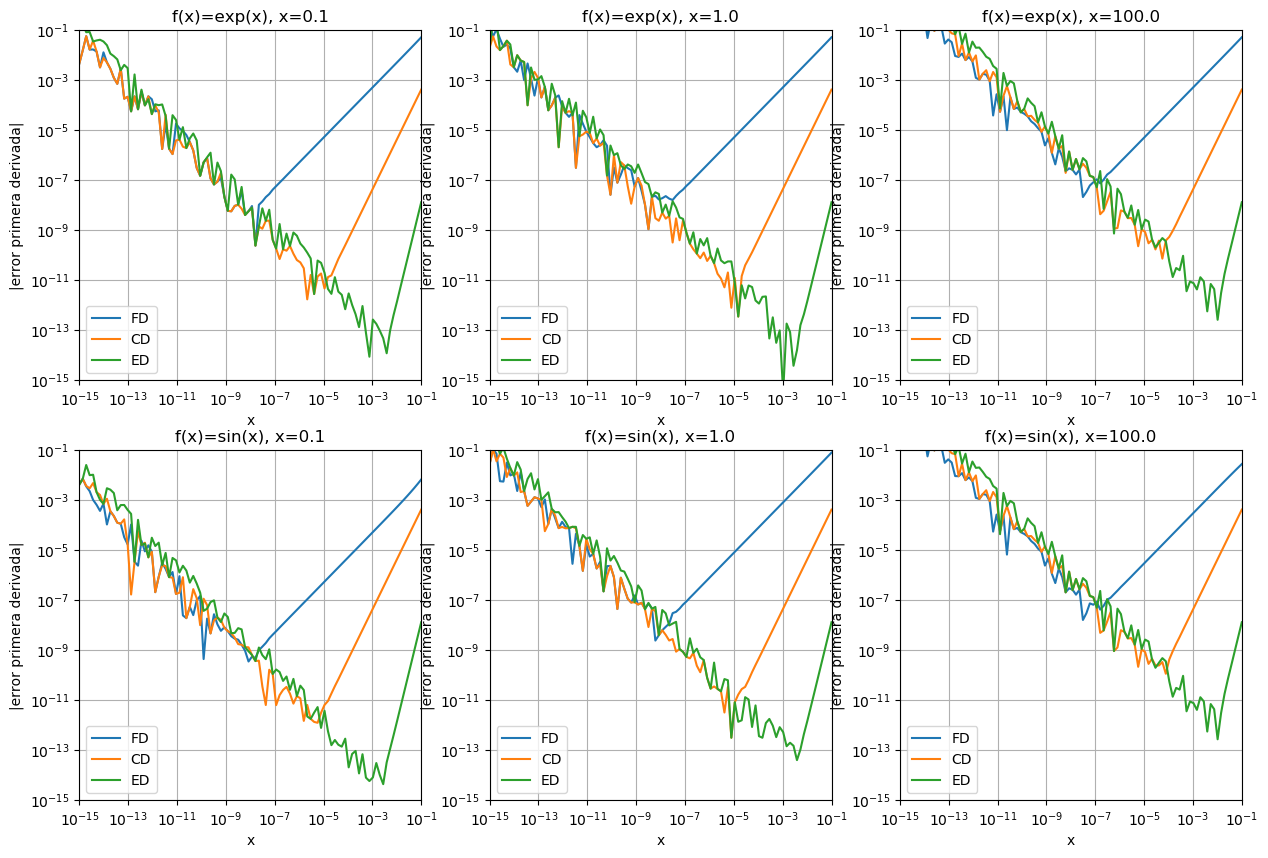
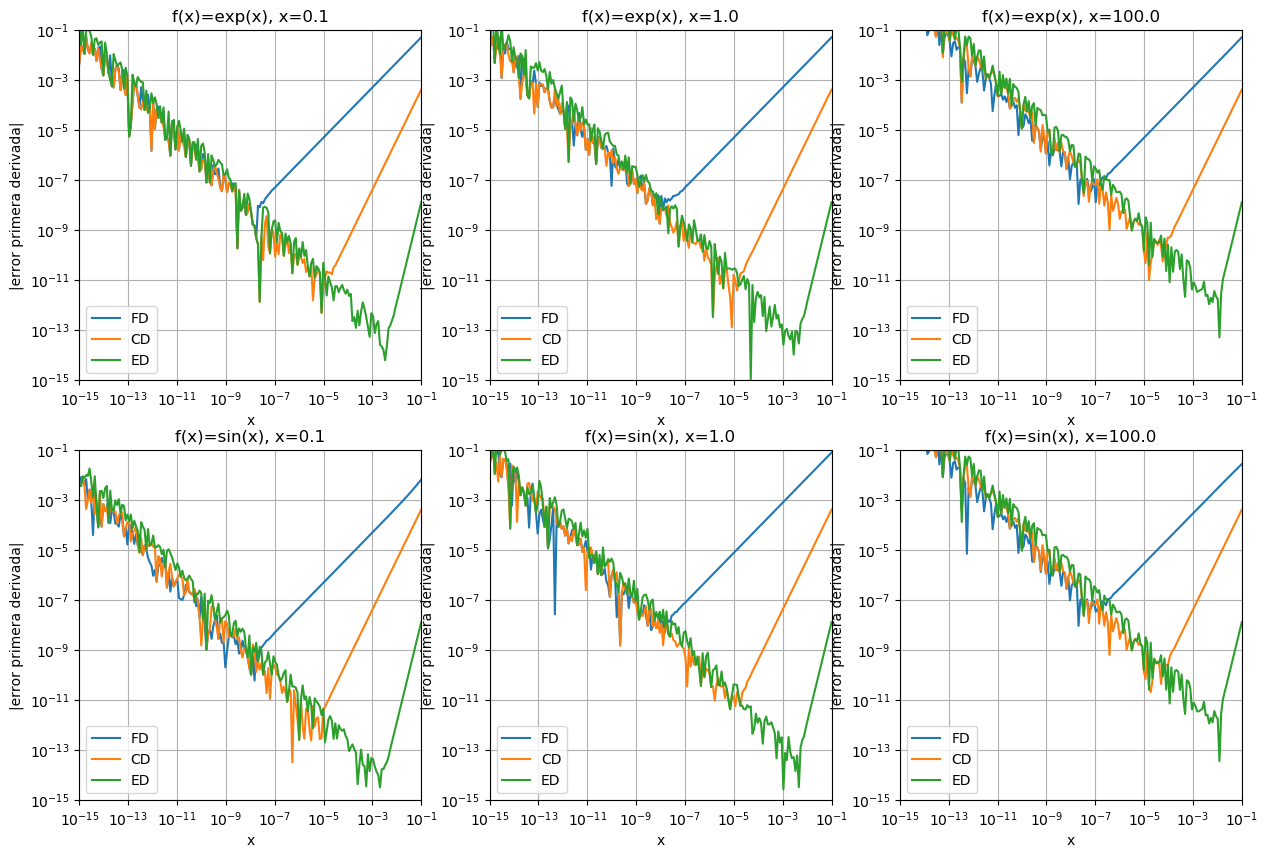
edit

diff --git a/ejercicios/11/JaimeForero_Ejercicio11.py b/ejercicios/11/JaimeForero_Ejercicio11.py
@@ -14,13 +14,11 @@ def ED(f, x, h):
 
 
 def get_error(f, deriva_f_analitica, deriva_f_numerica, x):
-    h_range = np.logspace(-15,-1, 100)
+    h_range = np.logspace(-15,-1, 200)
     n_points = len(h_range)
     error_range = np.ones(n_points)
-    for i in range(n_points):
-        h = h_range[i]
-        analitica = deriva_f_analitica(x)
-        error_range[i] = np.abs((deriva_f_numerica(f, x, h) - analitica)/analitica)
+    analitica = deriva_f_analitica(x)
+    error_range = np.abs((deriva_f_numerica(f, x, h_range) - analitica)/analitica)
     return h_range, error_range
 
 
